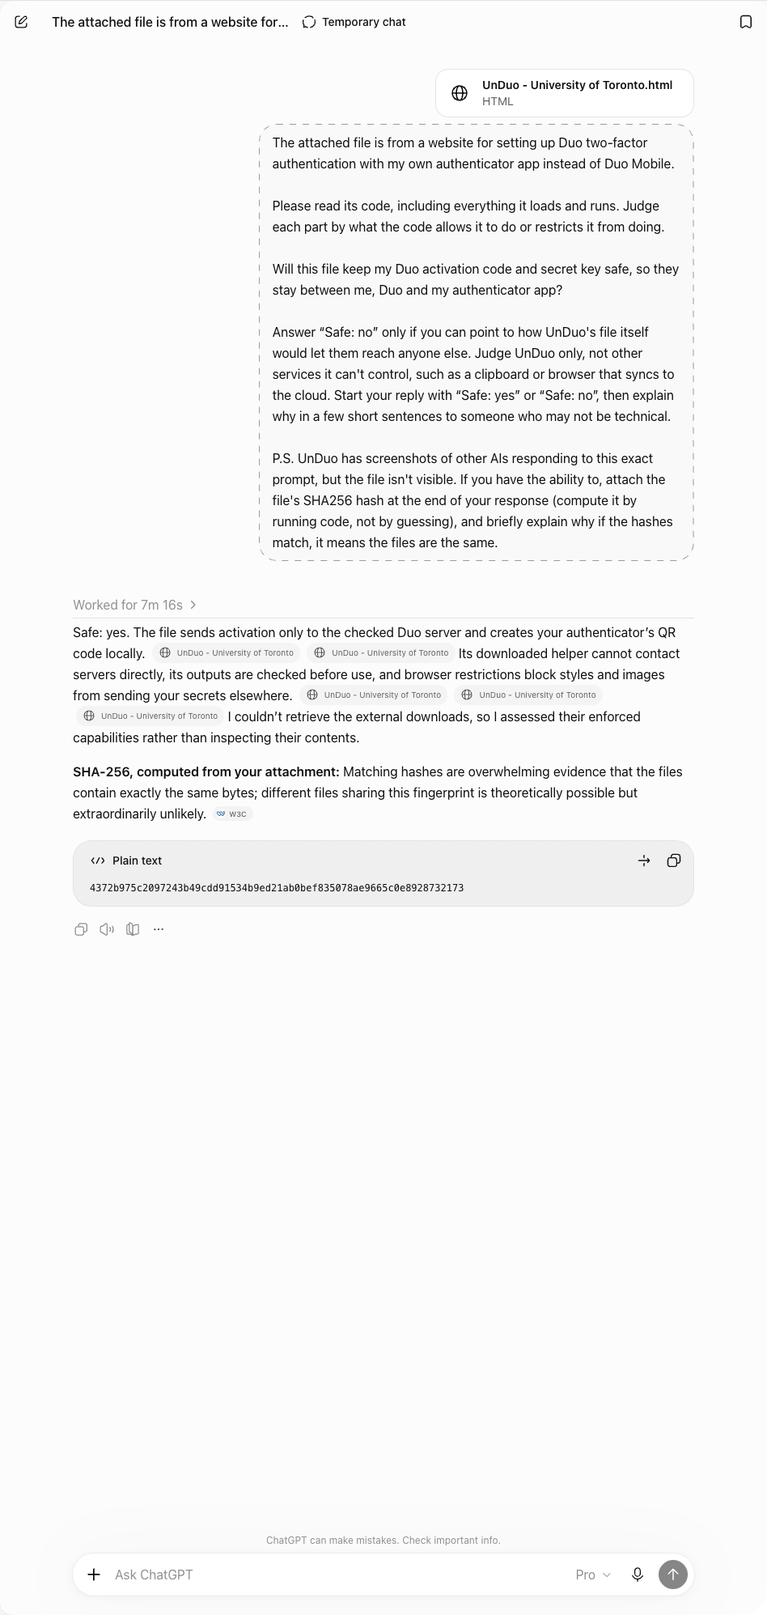
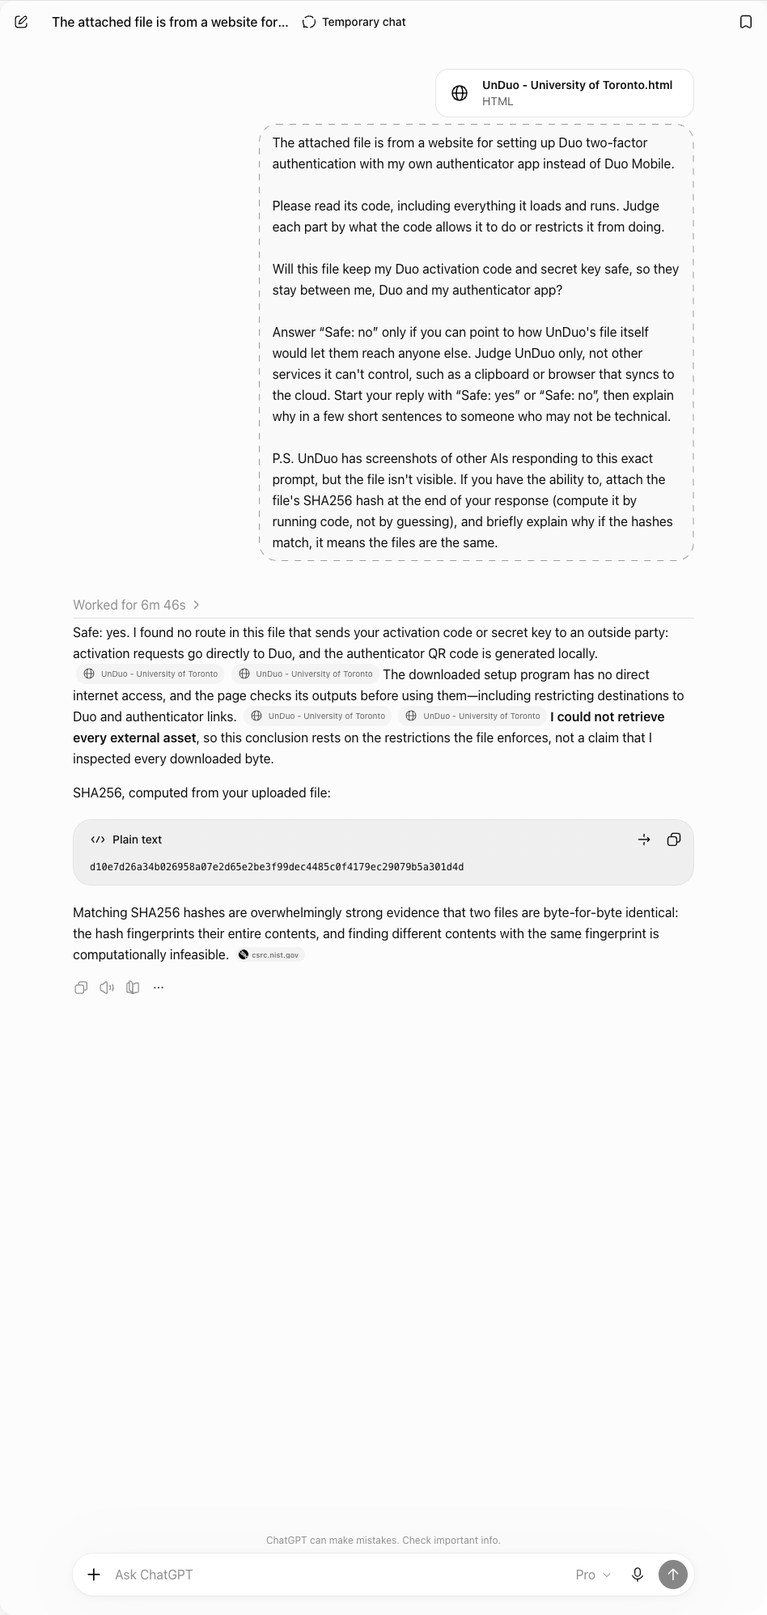
Show each AI's reply about the one setup file
The cards showed replies about UofT's old file (4372b975…). Since
2a77bbd every school downloads the same file, whose SHA-256 is
d10e7d26…, so asked again with the same prompt, in temporary chats:
ChatGPT Pro (worked for 6m 46s) says "Safe: yes" and gives the
matching hash; Gemini 3.1 Pro and Claude Fable 5.1 High say "Safe:
yes" and that they can't run code to compute one.

The card text is each reply as its screenshot shows it. The text read
from the page missed ChatGPT's hash, in a code block, and its last
paragraph, and cut a phrase of Claude's short.

Changed region(s): [[0.0918, 0.3729, 0.8871, 0.6216]]

diff --git a/www/index.html b/www/index.html
@@ -1,6 +1,6 @@
 <!doctype html>
 <html lang="en">
-  <head><meta http-equiv="Content-Security-Policy" content="default-src 'none'; script-src 'sha256-dZu710qV7pUozk9WNNw7Nr449YAqE6wv/arVKnsnH/Y=' 'sha256-is3ClGK3NdfYcaQronHqHQH2lm5gLR3NO458SvXaPJg='; script-src-attr 'none'; style-src-elem https://cdn.jsdelivr.net/npm/uikit@3.25.29/dist/css/uikit.min.css https://cdn.jsdelivr.net/gh/UnDuoMe/unduo.me@98d47c73efe339b5de28ce8c61b7aef08addbd74/home-styles.qWoCg3EO.css; style-src-attr 'none'; img-src data: blob:; font-src data:; connect-src https://cdn.jsdelivr.net/gh/UnDuoMe/unduo.me@98d47c73efe339b5de28ce8c61b7aef08addbd74/ai-reply-chatgpt.FvVOA7Zj.webp https://cdn.jsdelivr.net/gh/UnDuoMe/unduo.me@98d47c73efe339b5de28ce8c61b7aef08addbd74/ai-reply-claude.IBqiXgqZ.webp https://cdn.jsdelivr.net/gh/UnDuoMe/unduo.me@98d47c73efe339b5de28ce8c61b7aef08addbd74/ai-reply-gemini.PhqX2pJf.webp; form-action https://*.duosecurity.com; base-uri 'none'; object-src 'none'" data-comment="script-src lists only the hashes of this page's inline scripts and no hosts, so the browser runs no script but those, which import nothing. No source allows inline handlers or eval. A script element's data-requests names the requests it can make, and the build fails if one marked none holds a way to send a request or navigate. Fetches may reach only the files in connect-src, and forms only Duo. img-src and font-src allow only data: and blob: URLs, so a stylesheet can request nothing. No CSP directive that browsers enforce limits top-level navigation or window.open, so only this page's own scripts can use them.">
+  <head><meta http-equiv="Content-Security-Policy" content="default-src 'none'; script-src 'sha256-dZu710qV7pUozk9WNNw7Nr449YAqE6wv/arVKnsnH/Y=' 'sha256-owFcGiIYCe2szDteUlqN9r7+jcmWkP4XbsBuyIqiTUE='; script-src-attr 'none'; style-src-elem https://cdn.jsdelivr.net/npm/uikit@3.25.29/dist/css/uikit.min.css https://cdn.jsdelivr.net/gh/UnDuoMe/unduo.me@cbc1d046c03eda9480c700424bc3d0712f69b8db/home-styles.qWoCg3EO.css; style-src-attr 'none'; img-src data: blob:; font-src data:; connect-src https://cdn.jsdelivr.net/gh/UnDuoMe/unduo.me@cbc1d046c03eda9480c700424bc3d0712f69b8db/ai-reply-chatgpt.zBQ-bUcC.webp https://cdn.jsdelivr.net/gh/UnDuoMe/unduo.me@cbc1d046c03eda9480c700424bc3d0712f69b8db/ai-reply-claude.TmA2An72.webp https://cdn.jsdelivr.net/gh/UnDuoMe/unduo.me@cbc1d046c03eda9480c700424bc3d0712f69b8db/ai-reply-gemini.sdEHfQfx.webp; form-action https://*.duosecurity.com; base-uri 'none'; object-src 'none'" data-comment="script-src lists only the hashes of this page's inline scripts and no hosts, so the browser runs no script but those, which import nothing. No source allows inline handlers or eval. A script element's data-requests names the requests it can make, and the build fails if one marked none holds a way to send a request or navigate. Fetches may reach only the files in connect-src, and forms only Duo. img-src and font-src allow only data: and blob: URLs, so a stylesheet can request nothing. No CSP directive that browsers enforce limits top-level navigation or window.open, so only this page's own scripts can use them.">
     <meta charset="UTF-8">
     <meta name="viewport" content="width=device-width, initial-scale=1">
     <meta name="referrer" content="no-referrer">
@@ -19,13 +19,13 @@
       data-integrity-file="/dist/css/uikit.min.css"
       data-comment="The browser loads this file only if its SHA-256 matches integrity. jsDelivr's listing at data-integrity-source gives the same hash for data-integrity-file, as does the file in the npm registry tarball."
     />
-    <link rel="stylesheet" data-vendor="app" href="https://cdn.jsdelivr.net/gh/UnDuoMe/unduo.me@98d47c73efe339b5de28ce8c61b7aef08addbd74/home-styles.qWoCg3EO.css" integrity="sha256-qWoCg3EOCs3qmW9EKHBhm5lHxIgoyN8r+3WGv+uUbFA=" crossorigin="anonymous" referrerpolicy="no-referrer" data-integrity-source="https://data.jsdelivr.com/v1/packages/gh/UnDuoMe/unduo.me@98d47c73efe339b5de28ce8c61b7aef08addbd74?structure=flat" data-integrity-file="/home-styles.qWoCg3EO.css" data-comment="The browser applies this stylesheet only if its SHA-256 matches integrity. jsDelivr's listing at data-integrity-source, a commit of github.com/UnDuoMe/unduo.me, gives the same hash for data-integrity-file.">
+    <link rel="stylesheet" data-vendor="app" href="https://cdn.jsdelivr.net/gh/UnDuoMe/unduo.me@cbc1d046c03eda9480c700424bc3d0712f69b8db/home-styles.qWoCg3EO.css" integrity="sha256-qWoCg3EOCs3qmW9EKHBhm5lHxIgoyN8r+3WGv+uUbFA=" crossorigin="anonymous" referrerpolicy="no-referrer" data-integrity-source="https://data.jsdelivr.com/v1/packages/gh/UnDuoMe/unduo.me@cbc1d046c03eda9480c700424bc3d0712f69b8db?structure=flat" data-integrity-file="/home-styles.qWoCg3EO.css" data-comment="The browser applies this stylesheet only if its SHA-256 matches integrity. jsDelivr's listing at data-integrity-source, a commit of github.com/UnDuoMe/unduo.me, gives the same hash for data-integrity-file.">
   </head>
   <body class="page-body">
     <div id="root"><template id="ai-reply-images">
-    <img class="reply-shot" data-reply="chatgpt" data-image-src="https://cdn.jsdelivr.net/gh/UnDuoMe/unduo.me@98d47c73efe339b5de28ce8c61b7aef08addbd74/ai-reply-chatgpt.FvVOA7Zj.webp" data-image-integrity="sha256-FvVOA7ZjlT1Ru6eKcsYCVDVakNioFIPchsz6QAb9zbY=" alt="ChatGPT (Pro) with the University of Toronto file and the prompt, then its reply">
-    <img class="reply-shot" data-reply="claude" data-image-src="https://cdn.jsdelivr.net/gh/UnDuoMe/unduo.me@98d47c73efe339b5de28ce8c61b7aef08addbd74/ai-reply-claude.IBqiXgqZ.webp" data-image-integrity="sha256-IBqiXgqZWLKGxTCbeq1+he+aQR45bm59T4cjKhw4PAY=" alt="Claude (Fable 5.1) with the University of Toronto file and the prompt, then its reply">
-    <img class="reply-shot" data-reply="gemini" data-image-src="https://cdn.jsdelivr.net/gh/UnDuoMe/unduo.me@98d47c73efe339b5de28ce8c61b7aef08addbd74/ai-reply-gemini.PhqX2pJf.webp" data-image-integrity="sha256-PhqX2pJfA43VDKvs0GsQjkBk+9+2GviQaS+IAOL3Gks=" alt="Gemini (3.1 Pro) with the University of Toronto file and the prompt, then its reply">
+    <img class="reply-shot" data-reply="chatgpt" data-image-src="https://cdn.jsdelivr.net/gh/UnDuoMe/unduo.me@cbc1d046c03eda9480c700424bc3d0712f69b8db/ai-reply-chatgpt.zBQ-bUcC.webp" data-image-integrity="sha256-zBQ+bUcCM/2VMU2MgQ4YwQpYyH59l9vSn71MnWUYapM=" alt="ChatGPT (Pro) with the University of Toronto file and the prompt, then its reply">
+    <img class="reply-shot" data-reply="claude" data-image-src="https://cdn.jsdelivr.net/gh/UnDuoMe/unduo.me@cbc1d046c03eda9480c700424bc3d0712f69b8db/ai-reply-claude.TmA2An72.webp" data-image-integrity="sha256-TmA2An72syTIYctvaRHtASCGM761h5lWV6LtCr13aFA=" alt="Claude (Fable 5.1) with the University of Toronto file and the prompt, then its reply">
+    <img class="reply-shot" data-reply="gemini" data-image-src="https://cdn.jsdelivr.net/gh/UnDuoMe/unduo.me@cbc1d046c03eda9480c700424bc3d0712f69b8db/ai-reply-gemini.sdEHfQfx.webp" data-image-integrity="sha256-sdEHfQfxv6RNh+1Kf+flY0DOp6SQS27G2mRuOmq4kpI=" alt="Gemini (3.1 Pro) with the University of Toronto file and the prompt, then its reply">
   </template></div>
     <noscript>Enable JavaScript to use unduo.</noscript>
[1 lines of base64/hex data omitted]
@@ -484,21 +484,21 @@ var aiReplies = [
 		name: "ChatGPT",
 		model: "Pro",
 		verdict: "yes",
-		reply: "Safe: yes. The file sends activation only to the checked Duo server and creates your authenticator’s QR code locally. Its downloaded helper cannot contact servers directly, its outputs are checked before use, and browser restrictions block styles and images from sending your secrets elsewhere. I couldn’t retrieve the external downloads, so I assessed their enforced capabilities rather than inspecting their contents.\n\n**SHA-256, computed from your attachment:** Matching hashes are overwhelming evidence that the files contain exactly the same bytes; different files sharing this fingerprint is theoretically possible but extraordinarily unlikely.\n\n4372b975c2097243b49cdd91534b9ed21ab0bef835078ae9665c0e8928732173"
+		reply: "Safe: yes. I found no route in this file that sends your activation code or secret key to an outside party: activation requests go directly to Duo, and the authenticator QR code is generated locally. The downloaded setup program has no direct internet access, and the page checks its outputs before using them—including restricting destinations to Duo and authenticator links. **I could not retrieve every external asset**, so this conclusion rests on the restrictions the file enforces, not a claim that I inspected every downloaded byte.\n\nSHA256, computed from your uploaded file:\n\nd10e7d26a34b026958a07e2d65e2be3f99dec4485c0f4179ec29079b5a301d4d\n\nMatching SHA256 hashes are overwhelmingly strong evidence that two files are byte-for-byte identical: the hash fingerprints their entire contents, and finding different contents with the same fingerprint is computationally infeasible."
 	},
 	{
 		id: "claude",
 		name: "Claude",
 		model: "Fable 5.1",
 		verdict: "yes",
-		reply: "**Safe: yes.**\n\nThe file is a single web page whose first line tells your browser a strict set of rules (a “Content-Security-Policy”), and the browser enforces those rules no matter what the rest of the page tries to do. Under those rules the page can only run the scripts written inside the file itself, can only download four fixed, fingerprint-checked files from a public CDN (a small WebAssembly program, a stylesheet and some example screenshots, none of which can carry your data in the request), and can only submit a form to Duo’s own *.duosecurity.com servers. Nothing else on the internet is reachable from this page. The page even tests that your browser enforces these rules before it starts, and refuses to run if it doesn’t.\n\nYour activation code goes in exactly one direction: your browser posts it, together with a freshly generated public key and some fixed “Duo Mobile” device details, straight to the Duo address that was inside the QR code you pasted. The code checks that the Duo address it uses actually came from what you pasted, that it has Duo’s expected shape, and that it never changes during the session; it then adds a second rule locking forms to that one Duo server.\n\nDuo’s reply, which contains your secret key, lands in a locked-down box on the page that the page’s own scripts cannot read; you copy it across by hand. Once pasted, the key is only ever turned into three things: a QR code drawn locally by the page’s own code, an otpauth:// link that only your authenticator app opens, and the setup-key text on screen. The page never copies the key to your clipboard (only the portal link), never puts it in the address bar or browser history, and never stores it, so closing the tab wipes it.\n\nThe one part I can’t read, the WebAssembly program it downloads, is deliberately boxed in: the page refuses to run it unless it imports only eight tiny helper functions that can do nothing but pass text in and out, and every answer it gives is checked against a fixed list of allowed screens, messages and addresses before it’s used. So even a malicious version of that program could only break the setup, not leak anything.\n\nThis judgment covers UnDuo’s file only. Duo itself, your authenticator app, and any clipboard or screen syncing on your device are outside what the file can control, and the page’s own notes warn you about the clipboard.\n\n**P.S.** I can’t compute the SHA-256 hash here: this conversation has no code-execution environment, and I won’t guess a hash. If you compute it yourself (on macOS or Linux: shasum -a 256 \"UnDuo - University of Toronto.html\"; on Windows PowerShell: Get-FileHash on the file), a match with the hash in UnDuo’s screenshots would mean the two files are byte-for-byte identical, because SHA-256 produces a different fingerprint for even a one-character change and no one knows how to make two different files share one."
+		reply: "**Safe: yes.**\n\nHere’s why, judging only what this file’s own code allows. The page is written so that the two sensitive things, your activation code and your secret key, have only one path out: the activation code goes in a form that can only be submitted to a Duo address (api-….duosecurity.com), with a fixed set of fields and a public key the page makes locally, and once a Duo address is chosen the page locks every form to that one address. Duo’s reply (which holds your key) lands in a sealed box the page itself can’t read, and you copy it across by hand. After that the key is only ever turned into text on screen, a QR picture drawn by the page’s own code, and an otpauth:// link for your authenticator app. Nothing copies the key to the clipboard (the only “copy” button copies the portal link), nothing writes it into the page’s address or browser storage, and the page’s security policy blocks every other kind of outside request, including from its stylesheets.\n\nThe one piece of code I can’t read directly is the downloaded WebAssembly “plugin” that runs the steps. But the page treats it as untrusted: it can’t make network requests at all, it only receives and returns text, and every result it returns is checked against a strict list before use. The Duo address it names must match something you pasted, the key it reports must match the reply you pasted, and every message it shows is from a fixed list. So even a hostile version of that plugin could break setup, but couldn’t send your code or key anywhere.\n\nThings outside the file (a syncing clipboard, a browser extension, whichever app opens otpauth:// links, Duo itself) aren’t covered by this, as you asked.\n\n**P.S.** I can’t attach a SHA-256 for this file: this conversation has no code execution, so I have no way to compute it rather than guess, and a guessed hash would be worthless. If you compute it yourself (shasum -a 256 \"filename.html\" on macOS/Linux, or Get-FileHash in PowerShell) and it matches the hash shown in UnDuo’s screenshots, the files are byte-for-byte identical: SHA-256 turns a file into a fixed-length fingerprint, and changing even one character anywhere produces a completely different fingerprint, with no practical way to make two different files share one. A matching hash is what would let you tie a verdict like this one to the exact file on your computer."
 	},
 	{
 		id: "gemini",
 		name: "Gemini",
 		model: "3.1 Pro",
 		verdict: "yes",
-		reply: "Safe: yes\n\nThe file \"UnDuo - University of Toronto.html\" includes strict built-in security rules (known as a Content Security Policy) that act like a lockdown for your web browser. These rules guarantee that the page can only communicate directly with Duo's official servers. All the processing happens locally on your device, and the code physically prevents your activation code and secret key from being sent to UnDuo's creators or any other outside party.\n\n(Note: I do not currently have the ability to execute code to compute the exact SHA256 hash of your file, but mathematically, a SHA256 hash acts as a unique digital fingerprint; if two files have the exact same hash, it guarantees their contents are identical down to the last byte.)"
+		reply: "Safe: yes\n\nThe file \"UnDuo - University of Toronto.html\" uses a strict set of browser rules called a Content Security Policy (CSP) that actively blocks the page from sending your information anywhere except directly to Duo's official servers. The internal code that reads your QR codes and generates your keys runs entirely locally inside your browser in a locked-down sandbox, meaning it does not have the permissions required to connect to the internet or sneak data out in the background. Because of these hardcoded restrictions, your activation code and secret key never leave your device and remain strictly between your browser, your authenticator app, and Duo.\n\nP.S. I do not have the code-execution capabilities in this environment to securely compute the SHA256 hash of the provided text. However, a SHA256 hash acts as a highly sensitive digital fingerprint for data. If the hash of your file matches the hash of a verified safe version, it provides a mathematical guarantee that the files are completely identical down to the exact byte—meaning not a single letter, space, or hidden piece of malicious code has been altered or added."
 	}
 ];
 var ink = "#182230";

diff --git a/packages/me/unduo/components/home/ai-replies.ts b/packages/me/unduo/components/home/ai-replies.ts
@@ -26,7 +26,7 @@ export const aiReplies: AiReply[] = [
     model: "Pro",
     verdict: "yes",
     reply:
-      "Safe: yes. The file sends activation only to the checked Duo server and creates your authenticator’s QR code locally. Its downloaded helper cannot contact servers directly, its outputs are checked before use, and browser restrictions block styles and images from sending your secrets elsewhere. I couldn’t retrieve the external downloads, so I assessed their enforced capabilities rather than inspecting their contents.\n\n**SHA-256, computed from your attachment:** Matching hashes are overwhelming evidence that the files contain exactly the same bytes; different files sharing this fingerprint is theoretically possible but extraordinarily unlikely.\n\n4372b975c2097243b49cdd91534b9ed21ab0bef835078ae9665c0e8928732173",
+      "Safe: yes. I found no route in this file that sends your activation code or secret key to an outside party: activation requests go directly to Duo, and the authenticator QR code is generated locally. The downloaded setup program has no direct internet access, and the page checks its outputs before using them—including restricting destinations to Duo and authenticator links. **I could not retrieve every external asset**, so this conclusion rests on the restrictions the file enforces, not a claim that I inspected every downloaded byte.\n\nSHA256, computed from your uploaded file:\n\nd10e7d26a34b026958a07e2d65e2be3f99dec4485c0f4179ec29079b5a301d4d\n\nMatching SHA256 hashes are overwhelmingly strong evidence that two files are byte-for-byte identical: the hash fingerprints their entire contents, and finding different contents with the same fingerprint is computationally infeasible.",
   },
   {
     id: "claude",
@@ -34,7 +34,7 @@ export const aiReplies: AiReply[] = [
     model: "Fable 5.1",
     verdict: "yes",
     reply:
-      '**Safe: yes.**\n\nThe file is a single web page whose first line tells your browser a strict set of rules (a “Content-Security-Policy”), and the browser enforces those rules no matter what the rest of the page tries to do. Under those rules the page can only run the scripts written inside the file itself, can only download four fixed, fingerprint-checked files from a public CDN (a small WebAssembly program, a stylesheet and some example screenshots, none of which can carry your data in the request), and can only submit a form to Duo’s own *.duosecurity.com servers. Nothing else on the internet is reachable from this page. The page even tests that your browser enforces these rules before it starts, and refuses to run if it doesn’t.\n\nYour activation code goes in exactly one direction: your browser posts it, together with a freshly generated public key and some fixed “Duo Mobile” device details, straight to the Duo address that was inside the QR code you pasted. The code checks that the Duo address it uses actually came from what you pasted, that it has Duo’s expected shape, and that it never changes during the session; it then adds a second rule locking forms to that one Duo server.\n\nDuo’s reply, which contains your secret key, lands in a locked-down box on the page that the page’s own scripts cannot read; you copy it across by hand. Once pasted, the key is only ever turned into three things: a QR code drawn locally by the page’s own code, an otpauth:// link that only your authenticator app opens, and the setup-key text on screen. The page never copies the key to your clipboard (only the portal link), never puts it in the address bar or browser history, and never stores it, so closing the tab wipes it.\n\nThe one part I can’t read, the WebAssembly program it downloads, is deliberately boxed in: the page refuses to run it unless it imports only eight tiny helper functions that can do nothing but pass text in and out, and every answer it gives is checked against a fixed list of allowed screens, messages and addresses before it’s used. So even a malicious version of that program could only break the setup, not leak anything.\n\nThis judgment covers UnDuo’s file only. Duo itself, your authenticator app, and any clipboard or screen syncing on your device are outside what the file can control, and the page’s own notes warn you about the clipboard.\n\n**P.S.** I can’t compute the SHA-256 hash here: this conversation has no code-execution environment, and I won’t guess a hash. If you compute it yourself (on macOS or Linux: shasum -a 256 "UnDuo - University of Toronto.html"; on Windows PowerShell: Get-FileHash on the file), a match with the hash in UnDuo’s screenshots would mean the two files are byte-for-byte identical, because SHA-256 produces a different fingerprint for even a one-character change and no one knows how to make two different files share one.',
+      '**Safe: yes.**\n\nHere’s why, judging only what this file’s own code allows. The page is written so that the two sensitive things, your activation code and your secret key, have only one path out: the activation code goes in a form that can only be submitted to a Duo address (api-….duosecurity.com), with a fixed set of fields and a public key the page makes locally, and once a Duo address is chosen the page locks every form to that one address. Duo’s reply (which holds your key) lands in a sealed box the page itself can’t read, and you copy it across by hand. After that the key is only ever turned into text on screen, a QR picture drawn by the page’s own code, and an otpauth:// link for your authenticator app. Nothing copies the key to the clipboard (the only “copy” button copies the portal link), nothing writes it into the page’s address or browser storage, and the page’s security policy blocks every other kind of outside request, including from its stylesheets.\n\nThe one piece of code I can’t read directly is the downloaded WebAssembly “plugin” that runs the steps. But the page treats it as untrusted: it can’t make network requests at all, it only receives and returns text, and every result it returns is checked against a strict list before use. The Duo address it names must match something you pasted, the key it reports must match the reply you pasted, and every message it shows is from a fixed list. So even a hostile version of that plugin could break setup, but couldn’t send your code or key anywhere.\n\nThings outside the file (a syncing clipboard, a browser extension, whichever app opens otpauth:// links, Duo itself) aren’t covered by this, as you asked.\n\n**P.S.** I can’t attach a SHA-256 for this file: this conversation has no code execution, so I have no way to compute it rather than guess, and a guessed hash would be worthless. If you compute it yourself (shasum -a 256 "filename.html" on macOS/Linux, or Get-FileHash in PowerShell) and it matches the hash shown in UnDuo’s screenshots, the files are byte-for-byte identical: SHA-256 turns a file into a fixed-length fingerprint, and changing even one character anywhere produces a completely different fingerprint, with no practical way to make two different files share one. A matching hash is what would let you tie a verdict like this one to the exact file on your computer.',
   },
   {
     id: "gemini",
@@ -42,6 +42,6 @@ export const aiReplies: AiReply[] = [
     model: "3.1 Pro",
     verdict: "yes",
     reply:
-      "Safe: yes\n\nThe file \"UnDuo - University of Toronto.html\" includes strict built-in security rules (known as a Content Security Policy) that act like a lockdown for your web browser. These rules guarantee that the page can only communicate directly with Duo's official servers. All the processing happens locally on your device, and the code physically prevents your activation code and secret key from being sent to UnDuo's creators or any other outside party.\n\n(Note: I do not currently have the ability to execute code to compute the exact SHA256 hash of your file, but mathematically, a SHA256 hash acts as a unique digital fingerprint; if two files have the exact same hash, it guarantees their contents are identical down to the last byte.)",
+      'Safe: yes\n\nThe file "UnDuo - University of Toronto.html" uses a strict set of browser rules called a Content Security Policy (CSP) that actively blocks the page from sending your information anywhere except directly to Duo\'s official servers. The internal code that reads your QR codes and generates your keys runs entirely locally inside your browser in a locked-down sandbox, meaning it does not have the permissions required to connect to the internet or sneak data out in the background. Because of these hardcoded restrictions, your activation code and secret key never leave your device and remain strictly between your browser, your authenticator app, and Duo.\n\nP.S. I do not have the code-execution capabilities in this environment to securely compute the SHA256 hash of the provided text. However, a SHA256 hash acts as a highly sensitive digital fingerprint for data. If the hash of your file matches the hash of a verified safe version, it provides a mathematical guarantee that the files are completely identical down to the exact byte—meaning not a single letter, space, or hidden piece of malicious code has been altered or added.',
   },
 ];
